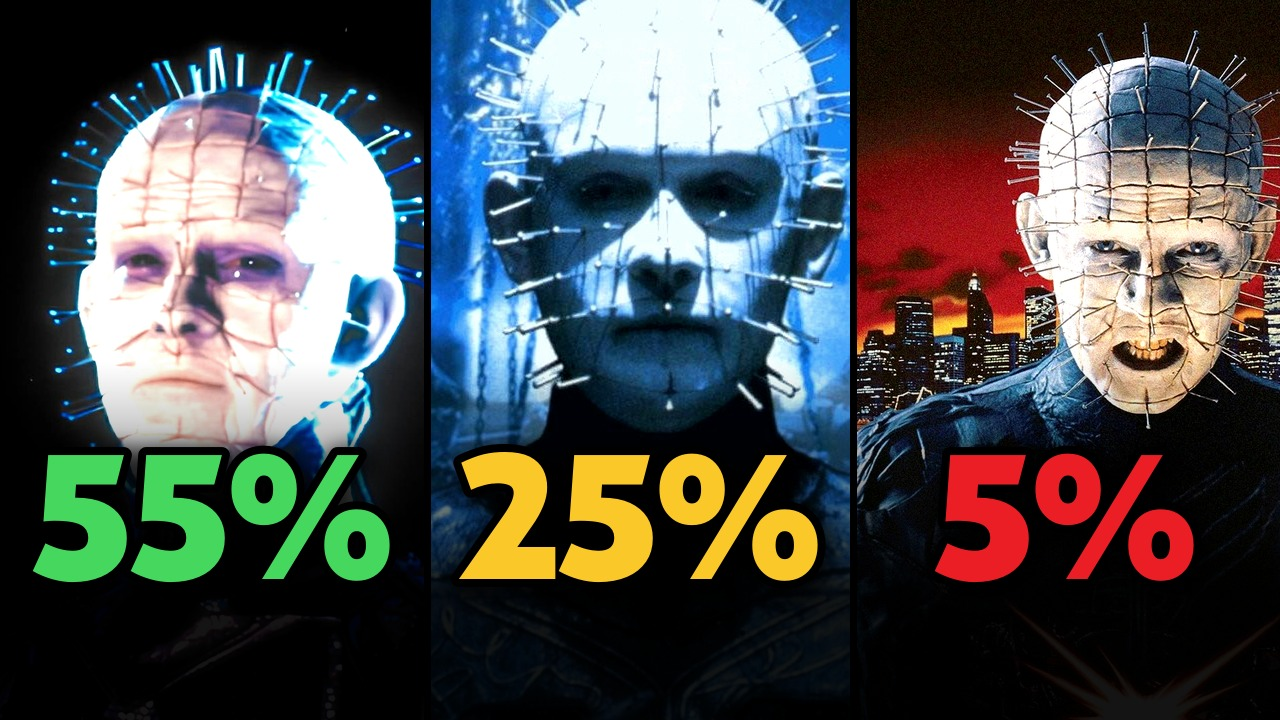
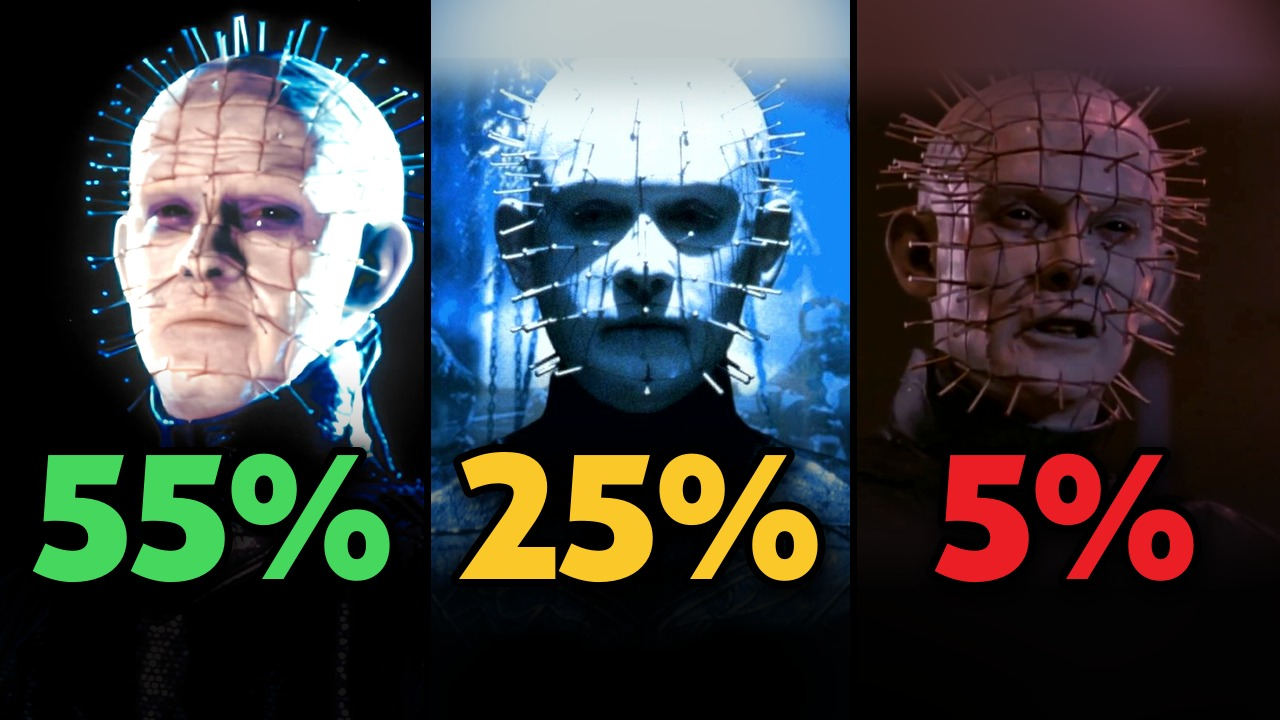
EP07 thumbs v2: no repeated source image, faces centred at equal scale on one eye line; skill QA rules

diff --git a/concepts/i444/ep07_pinhead/thumbs.py b/concepts/i444/ep07_pinhead/thumbs.py
@@ -31,11 +31,20 @@ def panel(sp, pw):
         t0, t1 = sp['blurfill']; bg = im.crop((0, t0, 1920, t1)).resize((int(1920 * H / (t1 - t0)), H), Image.LANCZOS).filter(ImageFilter.GaussianBlur(30))
         bg = ImageEnhance.Brightness(bg).enhance(0.6)
         bx = int(min(max(sp['cx'] * H / (t1 - t0) - pw / 2, 0), bg.width - pw)); bg = bg.crop((bx, 0, bx + pw, H))
-    else: s = max(s, H / im.height, pw / im.width)       # never smaller than the panel (no black bars)
+    else:                                                 # shared face scale; wherever the scaled source ends, a blurred copy extends the frame
+        k = max(H / im.height, pw / im.width) * 1.6; bg = im.resize((int(im.width * k), int(im.height * k)), Image.LANCZOS).filter(ImageFilter.GaussianBlur(40))
+        bg = ImageEnhance.Brightness(bg).enhance(0.8); sp = dict(sp, pad=(bg, k))
     big = im.resize((int(im.width * s), int(im.height * s)), Image.LANCZOS)
     cx, cy = sp['cx'] * s, sp['cy'] * s
-    x0 = int(min(max(cx - pw / 2, 0), big.width - pw)); y0 = int(min(max(cy - sp.get('eye_y', 250), 0), big.height - H))
-    p = big.crop((x0, y0, x0 + pw, y0 + H)).convert('RGBA')
+    if sp.get('pad'):                                     # face exactly centred on the panel, eyes on the shared eye line
+        bg, k = sp['pad']; ox, oy = pw / 2 - cx, sp['eye_y'] - cy
+        p = bg.crop((int(sp['cx'] * k - pw / 2), int(sp['cy'] * k - sp['eye_y'])) + (int(sp['cx'] * k + pw / 2), int(sp['cy'] * k - sp['eye_y']) + H)).convert('RGBA')
+        m = Image.new('L', big.size, 0); ImageDraw.Draw(m).rectangle([30, 30, big.width - 30, big.height - 30], fill=255); m = m.filter(ImageFilter.GaussianBlur(18))
+        p.paste(big, (int(ox), int(oy)), m)
+    else:
+        x0 = int(min(max(cx - pw / 2, 0), big.width - pw)); y0 = int(min(max(cy - sp.get('eye_y', 250), 0), big.height - H))
+        if (x0, y0) != (int(cx - pw / 2), int(cy - sp.get('eye_y', 250))): print('  WARN face not centred', sp['clip'], (x0, y0), (int(cx - pw / 2), int(cy - sp.get('eye_y', 250))))
+        p = big.crop((x0, y0, x0 + pw, y0 + H)).convert('RGBA')
     if sp.get('blurfill'):
         top = int(sp['blurfill'][0] * s) - y0; bot = int(sp['blurfill'][1] * s) - y0
         canvas = bg.convert('RGBA'); canvas.alpha_composite(p.crop((0, max(top, 0), pw, min(bot, H))), (0, max(top, 0))); p = canvas
@@ -53,12 +62,17 @@ def three(specs, name):
 # zoomed in, the face fills most of the panel with the eyes in the upper third, % below the face. Coordinates = 1920x1080 frame.
 def P(clip, t, cx, cy, face_h, pct, col, bright=1.15, face_px=430, eye_y=300, blurfill=None): return dict(clip=clip, t=t, cx=cx, cy=cy, face_h=face_h, pct=pct, col=col, bright=bright, face_px=face_px, eye_y=eye_y, blurfill=blurfill)
 os.makedirs(OUT, exist_ok=True)
-three([P('poster:o_lXpBj7RDr7wShql0KpCLYHyYvdi.jpg', 0, 2080, 760, 1120, '80%', GREEN, 1.1, face_px=400, eye_y=230),
-       P('poster:o_4SxXppJUwjQnd98VLxQEHvH3CfR.jpg', 0, 1010, 380, 820, '40%', YEL, 0.95, face_px=400, eye_y=250),
-       P('poster:o_xjeoa7KjnUMQzJXGunHmgMjhHmP.jpg', 0, 2600, 600, 1120, '5%', RED, 1.05, face_px=420, eye_y=230)], 'pinhead_thumb_a.jpg')
-three([P('poster:o_qW4hr2WweKiyztgd4Ql0wlfRYBF.jpg', 0, 2400, 480, 840, '60%', GREEN, 1.2, face_px=400, eye_y=230),
-       P('hr22_bridge', 25.0, 800, 390, 520, '30%', YEL, 1.9, face_px=400, eye_y=230),
-       P('poster:o_qAe4OrahEXWYwmm5wEjk5G7UjxU.jpg', 0, 960, 520, 840, '8%', RED, 1.1, face_px=440, eye_y=250)], 'pinhead_thumb_b.jpg')
-three([P('poster:o_pl5OzUABUK5AgAsMlQg2VyybRHL.jpg', 0, 1760, 440, 600, '55%', GREEN, 1.2, face_px=400, eye_y=230),
-       P('poster:o_4YXR73TbaS9xl8KfEc88W8CjxkJ.jpg', 0, 940, 300, 760, '25%', YEL, 0.95, face_px=400, eye_y=250),
-       P('poster:o_qnXEJp6KP6aIGWhNrg1fOKza4kp.jpg', 0, 417, 390, 500, '5%', RED, 1.05, face_px=420, eye_y=230)], 'pinhead_thumb_c.jpg')
+# owner 11/04: every face centred (nose on the panel centre) and the same size with the eyes on one line in all panels:
+# (cx, cy) = nose x / eye line, face_h = eye-to-mouth distance in source px -> FACE px in the output, eyes at EYE.
+# No source image twice in a thumbnail or across A/B/C (the 1987 / Hell on Earth skyline face is one photo).
+FACE, EYE = 115, 210
+def F(clip, t, cx, cy, em, pct, col, bright=1.15): return P(clip, t, cx, cy, em, pct, col, bright, face_px=FACE, eye_y=EYE)
+three([F('poster:o_lXpBj7RDr7wShql0KpCLYHyYvdi.jpg', 0, 2179, 865, 412, '80%', GREEN, 1.1),     # Hellworld, jar room
+       F('hr1_pack4k', 45.7, 889, 417, 327, '40%', YEL, 1.25),                                 # Hellraiser 1987, hospital blinds (4K clip)
+       F('poster:o_xjeoa7KjnUMQzJXGunHmgMjhHmP.jpg', 0, 2556, 802, 416, '5%', RED, 1.05)], 'pinhead_thumb_a.jpg')   # Hell on Earth, skyline
+three([F('poster:o_qW4hr2WweKiyztgd4Ql0wlfRYBF.jpg', 0, 2403, 458, 275, '60%', GREEN, 1.2),     # Judgment
+       F('hr22_bridge', 25.0, 807, 434, 191, '30%', YEL, 1.9),                                # the Priest, 2022
+       F('poster:o_qAe4OrahEXWYwmm5wEjk5G7UjxU.jpg', 0, 945, 510, 310, '8%', RED, 1.1)], 'pinhead_thumb_b.jpg')    # Inferno
+three([F('poster:o_pl5OzUABUK5AgAsMlQg2VyybRHL.jpg', 0, 1719, 485, 188, '55%', GREEN, 0.95),     # Hellbound
+       F('poster:o_4YXR73TbaS9xl8KfEc88W8CjxkJ.jpg', 0, 970, 276, 210, '25%', YEL, 0.95),      # Bloodline
+       F('hr3_iamtheway', 131.6, 814, 320, 258, '5%', RED, 1.45)], 'pinhead_thumb_c.jpg')        # Hell on Earth, church

diff --git a/concepts/i444/ep07_pinhead/qa/measure.py b/concepts/i444/ep07_pinhead/qa/measure.py
@@ -1,0 +1,14 @@
+# gridded crop around a face in source pixels: python qa/measure.py out.jpg src x0 y0 x1 y1 [step]   (src = TMDB file name or clip@t)
+import sys, os, io, subprocess
+from PIL import Image, ImageDraw, ImageFont
+out, src = sys.argv[1], sys.argv[2]; x0, y0, x1, y1 = map(int, sys.argv[3:7]); st = int(sys.argv[7]) if len(sys.argv) > 7 else 50
+POSTERS = 'C:/Users/hw549/AppData/Local/Temp/claude/C--Users-hw549-Downloads-YTP1/13ed4b5d-5f22-4c14-8e5f-413f537955db/scratchpad/tmdb_ph'
+CLIPS = 'E:/YTP2/Horror Ranked/EP07 Pinhead/1_work/clips'
+if '@' in src:
+    c, t = src.split('@'); png = subprocess.check_output(['ffmpeg', '-v', 'error', '-ss', t, '-i', os.path.join(CLIPS, c + '.mp4'), '-frames:v', '1', '-f', 'image2pipe', '-vcodec', 'png', '-'])
+    im = Image.open(io.BytesIO(png)).convert('RGB'); im = im.resize((1920, 1080), Image.LANCZOS)   # same 1920x1080 coordinates as thumbs.py
+else: im = Image.open(os.path.join(POSTERS, src)).convert('RGB')
+c = im.crop((x0, y0, x1, y1)); k = 900 / max(c.size); c = c.resize((int(c.width * k), int(c.height * k))); d = ImageDraw.Draw(c); fn = ImageFont.truetype('arial.ttf', 16)
+for x in range((x0 // st + 1) * st, x1, st): X = (x - x0) * k; d.line([(X, 0), (X, c.height)], fill=(255, 255, 0) if x % (st * 2) == 0 else (110, 110, 0)); d.text((X + 2, 2), str(x), font=fn, fill='yellow')
+for y in range((y0 // st + 1) * st, y1, st): Y = (y - y0) * k; d.line([(0, Y), (c.width, Y)], fill=(0, 255, 255) if y % (st * 2) == 0 else (0, 110, 110)); d.text((2, Y + 2), str(y), font=fn, fill='cyan')
+c.save(out, quality=85)

diff --git a/concepts/i444/skill/horror-ranked-thumbnail/SKILL.md b/concepts/i444/skill/horror-ranked-thumbnail/SKILL.md
@@ -15,6 +15,11 @@ Reference: `reference_myers_v4_a.jpg` in this folder (EP01 Myers v4 A: 90% / 62%
   centred in each panel, baseline no lower than y = H - 130 (owner 10/31: slightly raised like EP03 Ghostface; the YouTube duration
   badge covers the bottom-right ~15 % and clipped the red % on EP01/EP02/Halloween), red % kept clear of x > ~1180, y > ~610; **By position, always: LEFT GREEN (70,215,95), MIDDLE YELLOW (250,200,40), RIGHT RED (235,30,38).**
   The red number is the lowest survival rate in the video (e.g. Art the Clown 3%, not his other entry's 6%).
+- **Every face centred and the same size in all three panels (owner 11/04)**: nose on the panel's centre line, eyes on one shared
+  line (y ~ 210), and the same face scale everywhere: measure each source's eye line, nose x and eye-to-mouth distance on a gridded
+  crop (`ep07_pinhead/qa/measure.py`) and map that distance to one fixed output size (EP07: 115 px). No panel zoomed in more than the
+  others; where a scaled source doesn't fill the panel, extend it with a blurred copy (`ep07_pinhead/thumbs.py` does this) instead of
+  zooming in.
 - **Shadow under the numbers is mandatory**: a vertical black gradient over each panel from 50 % height to the bottom
   (alpha ramps 0 -> ~235), so the picture under the % is dark and the numbers pop. Don't let the face sit under the %.
 
@@ -30,6 +35,13 @@ Reference: `reference_myers_v4_a.jpg` in this folder (EP01 Myers v4 A: 90% / 62%
   downscales (~250-300 px) and may show a different film's version of the villain, so don't use them directly.
 - Brighten dark faces a little (brightness 1.1-1.6, contrast ~1.18), keep blown-out whites under control (brightness < 1 if needed).
 
+## No repeated image (owner 11/04: "the 40% and 5% look like the same picture... no QA?")
+- No two panels in one thumbnail, and no panel anywhere in A/B/C, may use the same source image **or a look-alike**: TMDB stills
+  and posters are often the same photo recoloured or re-cut (EP07: the Hell on Earth skyline face appeared as a 1987 backdrop, a blue
+  "box" backdrop and the poster). Check file names/hashes AND compare pose, expression and lighting by eye on one contact sheet of
+  all nine panels.
+- Each panel must really come from the film whose % it shows (prefer a frame of that film's own official clip when TMDB is unsure).
+
 ## Three variants, visually very different
 Always make A, B and C with different faces/compositions so the test reads as three different videos, e.g.
 Ghostface: A = Ghostface / character 1 / character 2; B = Ghostface 1 / Ghostface 2 / Ghostface 3.
@@ -42,6 +54,6 @@ C = Silver Shamrock skull mask 60 / Hell Fest's The Other 45 / Art 3.
 `python thumbs.py [clips_dir] [out_dir] [posters_dir]` writes `upload/<ep>_thumb_{a,b,c}.jpg`; copy them to `E:\YTP2\Horror Ranked\EPxx_upload\`.
 
 ## QA before sending
-View all three at 640x360 and 960x540: every face whole, sharp and large; no black or blurred bands; the three colours in
+Put A/B/C on one sheet and check the repeated-image rule and the equal face size / eye line first. Then view all three at 640x360 and 960x540: every face whole, sharp and large; no black or blurred bands; the three colours in
 green / yellow / red order; numbers sit on dark shadow; the red % matches the narration's lowest rate. Send the three jpgs to the owner,
 update the upload kit's thumbnail lines, push.

diff --git a/concepts/i444/ep07_pinhead/upload/upload_kit_v1.md b/concepts/i444/ep07_pinhead/upload/upload_kit_v1.md
@@ -8,9 +8,10 @@ Video: E:\YTP2\Horror Ranked\EP07 Pinhead\2_renders\ep07_pinhead_v1.mp4 | Subtit
 3. You Solved the Box Which Pinhead Comes for You
 
 ## Thumbnails (left GREEN / middle YELLOW / right RED; three very different variants)
-A. Pinhead, Hellworld (official still) 80% / Pinhead, Hellraiser 1987 (official still) 40% / Pinhead, Hell on Earth (official still) 5%
+(v2 11/04: no source image used twice; every face centred, same size, eyes on one line)
+A. Pinhead, Hellworld (official still) 80% / Pinhead, Hellraiser 1987 (hospital blinds, official 4K clip) 40% / Pinhead, Hell on Earth (skyline, official still) 5%
 B. Pinhead, Judgment (official still) 60% / the Priest, Hellraiser 2022 30% / Pinhead, Inferno (official still) 8%
-C. Pinhead, Hellbound (official still) 55% / Pinhead, Bloodline (official still) 25% / Pinhead, Hell on Earth (poster art) 5%
+C. Pinhead, Hellbound (official still) 55% / Pinhead, Bloodline (official still) 25% / Pinhead, Hell on Earth (church, official clip) 5%
 
 ## Description
 You just solved the puzzle box, and Pinhead is standing in your room. How likely are you to survive him? We score every Pinhead on strength, intelligence, kill count and how supernatural he is, which really means whether anything you do can stop him, and rank all eleven Hellraiser films, from Hellworld and Judgment to the original Hellraiser, the 2022 Priest and Hell on Earth.

diff --git a/concepts/i444/skill/horror-ranked-episode/SKILL.md b/concepts/i444/skill/horror-ranked-episode/SKILL.md
@@ -8,7 +8,7 @@ description: Make a Horror Ranked (formerly Instruction 444) "Every <villain> Ra
 Repo: `concepts/i444/` on the project branch (worktree `C:\Users\hw549\Downloads\YTP1\i444_wt`). Code to reuse:
 `ep01/gfx.py` (word_tag, title, rank_card, film_label; YouTube Sans Black), `ep03/anim.py` (animated stat card, tiers),
 `ep03/build_edl_v2.py` (EDL builder pattern), `ep03/render_v2.py` (frame-exact renderer), `ep03/make_srt_v2.py`, `ep03/thumbs_v2.py` (C layout).
-Big files only under `E:\YTP2\Horror Ranked\EPxx <villain>\` (1_work = clips + temp, 2_renders = final video + phone copy,
+Big files only under `E:\YTP2\Horror Ranked\EPxx <villain>\` (1_work = clips + temp, 2_renders = final video only,
 3_upload = thumbnails, upload kit, srt); reusable music/sfx/fonts in `E:\YTP2\Horror Ranked\_assets\` (see its README.md). Never commit video.
 
 ## 1. The cold open is the core (owner: "that's the key")
